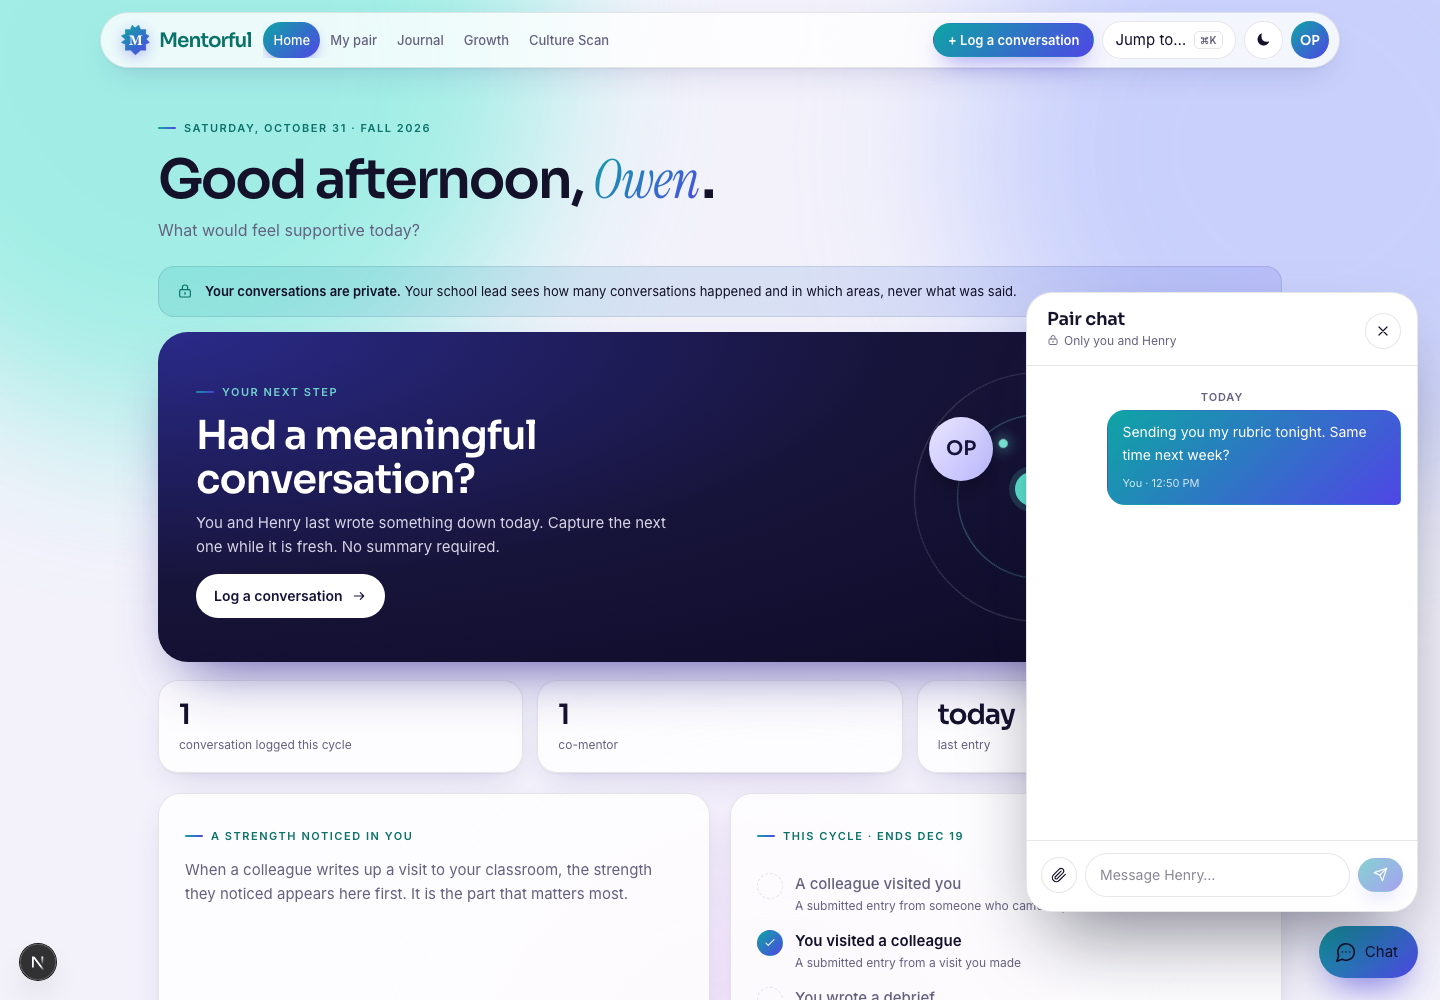
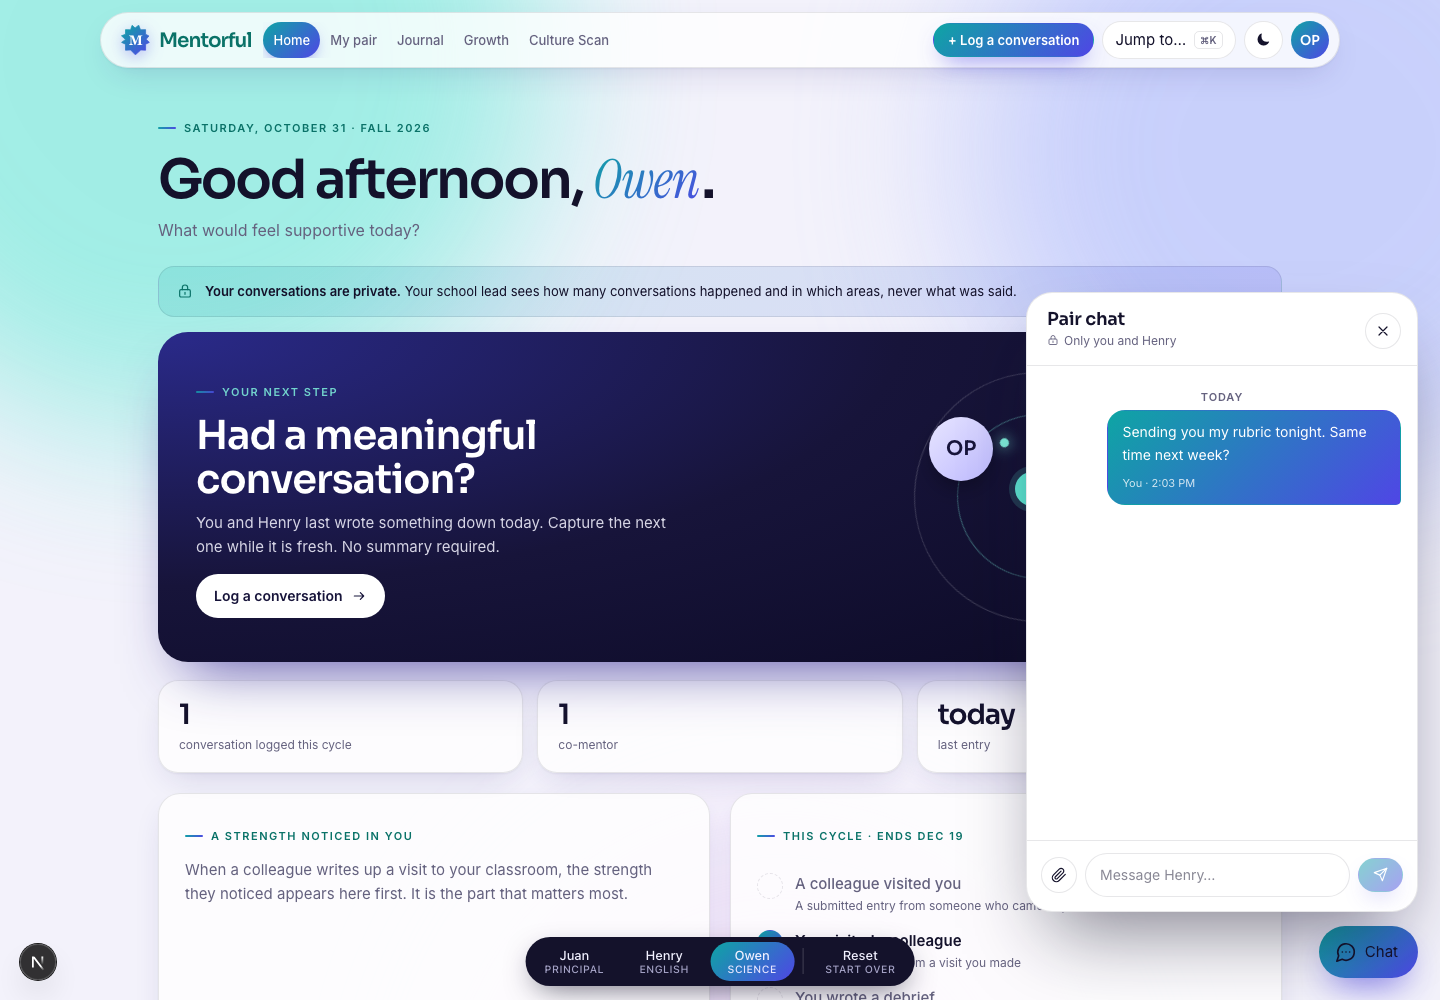
Demo Day: stage launcher, role switcher bar, stage landing, run sheet for the live link

Changed region(s): [[0.3438, 0.93, 0.6562, 1.0], [0.8125, 0.465, 0.8438, 0.496]]

diff --git a/apps/web/src/app/demo/page.tsx b/apps/web/src/app/demo/page.tsx
@@ -1,0 +1,61 @@
+import Link from "next/link";
+import { AuroraPublic } from "@/components/aurora/public-frame";
+import { STAGE_CHARACTERS } from "@/lib/preview/stageTables";
+
+export const metadata = { title: "Demo Day" };
+export const dynamic = "force-dynamic";
+
+const BEATS: { who: string; what: string }[] = [
+  { who: "Juan", what: "Pulse: the focus banner says 8 teachers still need a partner. Point at the privacy badge." },
+  { who: "Juan", what: "Constellation: English and Science are the biggest missing link in the school." },
+  { who: "Juan", what: "Pairing, then Draft new round. The map draws new links between English and Science. Approve 4 pairs." },
+  { who: STAGE_CHARACTERS.first.split(" ")[0], what: "Home now shows a partner. Log a conversation, Save draft, then Submit this entry." },
+  { who: STAGE_CHARACTERS.second.split(" ")[0], what: "Open Chat (bottom right) and send a message. It appears on the other teacher's screen." },
+  { who: "Juan", what: "Pulse again: logged conversations goes from 9 to 10. The words of the entry are nowhere on this side." },
+  { who: "Juan", what: "Trust page: the live check shows what leadership can read." },
+  { who: "Juan", what: "Reports: the faculty map and Download PDF for the deck. Then Present." },
+];
+
+export default function Demo() {
+  return (
+    <AuroraPublic>
+      <p className="ev-eyebrow">Demo Day stage</p>
+      <h1>
+        Three screens, <em>one story.</em>
+      </h1>
+      <p className="ev-lead">
+        No sign-in. Use the bar at the bottom of every screen to change who you are, and <b>Reset</b> before each run. Use one tab: the
+        role is shared by every tab in this browser.
+      </p>
+
+      <div className="ap-demos" style={{ gridTemplateColumns: "repeat(3, minmax(0, 1fr))" }}>
+        <Link className="ap-demo" href="/preview/as/admin?next=/admin/pulse">
+          <b>Juan, the principal</b>
+          <span>Pulse, Pairing, Constellation, Reports.</span>
+        </Link>
+        <Link className="ap-demo" href="/preview/as/teacher?next=/dashboard">
+          <b>{STAGE_CHARACTERS.first}, English</b>
+          <span>The teacher dashboard: partner, journal, chat.</span>
+        </Link>
+        <Link className="ap-demo" href="/preview/as/teacher?who=second&next=/dashboard">
+          <b>{STAGE_CHARACTERS.second}, Science</b>
+          <span>The same dashboard, as the other teacher.</span>
+        </Link>
+      </div>
+
+      <h2 style={{ marginTop: 32 }}>The scene</h2>
+      <ol style={{ paddingLeft: 20, display: "grid", gap: 8 }}>
+        {BEATS.map((b, i) => (
+          <li key={i}>
+            <b>{b.who}.</b> {b.what}
+          </li>
+        ))}
+      </ol>
+      <p style={{ marginTop: 24 }}>
+        <Link className="ev-btn" href="/preview/reset?next=/demo">
+          Reset the demo
+        </Link>
+      </p>
+    </AuroraPublic>
+  );
+}

diff --git a/apps/web/src/components/demo/switcher.tsx b/apps/web/src/components/demo/switcher.tsx
@@ -1,0 +1,43 @@
+/**
+ * Demo Day only: a small bar at the bottom of every screen that says who you are right now and switches you to someone else
+ * in one click. The demo has no sign-in. Who you are is kept in a browser cookie, shared by every tab, so the bar is how you
+ * move between the principal and the two teachers without opening the wrong screen. It is hidden when printing.
+ */
+import { STAGE_CHARACTERS } from "@/lib/preview/stageTables";
+
+export type StageRole = "admin" | "first" | "second";
+
+const PEOPLE: { role: StageRole; label: string; sub: string; href: string }[] = [
+  { role: "admin", label: "Juan", sub: "principal", href: "/preview/as/admin?next=/admin/pulse" },
+  { role: "first", label: STAGE_CHARACTERS.first.split(" ")[0], sub: "English", href: "/preview/as/teacher?next=/dashboard" },
+  { role: "second", label: STAGE_CHARACTERS.second.split(" ")[0], sub: "Science", href: "/preview/as/teacher?who=second&next=/dashboard" },
+];
+
+export function DemoSwitcher({ current }: { current: StageRole }) {
+  return (
+    <nav className="demo-switcher" aria-label="Demo Day: who you are">
+      <style>{`
+        .demo-switcher{position:fixed;left:50%;bottom:14px;transform:translateX(-50%);z-index:2147483000;display:flex;gap:4px;align-items:center;padding:5px;border-radius:999px;background:#14122b;color:#f2f1ff;font:500 13px/1 system-ui,sans-serif;box-shadow:0 10px 30px -10px rgba(20,18,43,.7)}
+        .demo-switcher a{display:inline-flex;flex-direction:column;align-items:center;gap:2px;padding:7px 14px;border-radius:999px;color:#f2f1ff;text-decoration:none;min-width:84px}
+        .demo-switcher a small{font-size:10.5px;letter-spacing:.04em;text-transform:uppercase;color:#a5a3c6}
+        .demo-switcher a[aria-current=true]{background:linear-gradient(135deg,#0ea5a4,#4f46e5)}
+        .demo-switcher a[aria-current=true] small{color:#e6e5ff}
+        .demo-switcher a:hover:not([aria-current=true]){background:rgba(255,255,255,.12)}
+        .demo-switcher a:focus-visible{outline:2px solid #5eead4;outline-offset:2px}
+        .demo-switcher .sep{width:1px;height:26px;background:rgba(255,255,255,.2);margin:0 4px}
+        @media print{.demo-switcher{display:none}}
+      `}</style>
+      {PEOPLE.map((p) => (
+        <a key={p.role} href={p.href} aria-current={p.role === current}>
+          {p.label}
+          <small>{p.sub}</small>
+        </a>
+      ))}
+      <span className="sep" aria-hidden />
+      <a href="/preview/reset?next=/demo" aria-label="Reset the demo to its starting point">
+        Reset
+        <small>start over</small>
+      </a>
+    </nav>
+  );
+}

diff --git a/apps/web/src/app/page.tsx b/apps/web/src/app/page.tsx
@@ -17,6 +17,8 @@ const SIGNED_IN = [
   { href: "/dashboard", title: "Dashboard", blurb: "What a teacher sees day to day." },
 ];
 const DEMO = process.env.PREVIEW_MOCK === "1";
+// Demo Day: no sign-in on the stage, one door to the launcher instead.
+const STAGE = DEMO && process.env.PREVIEW_DATASET === "stage";
 const DEMOS = DEMO ? [...OPEN, ...SIGNED_IN] : OPEN;
 
 export default function Home() {
@@ -26,15 +28,22 @@ export default function Home() {
         <h1>The school culture platform for teachers and the people who lead them.</h1>
         <p className="ap-lead">Co-mentoring, classroom visits, and a real measure of how your faculty is actually connected.</p>
         <div className="ap-cta">
-          <Link className="ev-btn primary" href="/login">
-            Sign in
-          </Link>
+          {STAGE ? (
+            <Link className="ev-btn primary" href="/demo">
+              Open the Demo Day stage
+            </Link>
+          ) : (
+            <Link className="ev-btn primary" href="/login">
+              Sign in
+            </Link>
+          )}
           <a className="ev-btn" href="https://mentorful.co">
             About Mentorful
           </a>
         </div>
       </section>
 
+      {STAGE ? null : (
       <section aria-labelledby="ap-demo-h">
         <h2 id="ap-demo-h">{DEMO ? "Look around without an account" : "Take a look"}</h2>
         <p className="ap-muted">{DEMO ? "Everything below runs on synthetic data. No real school responses." : "No account needed. Both use sample data, not a real school\u2019s answers."}</p>
@@ -47,6 +56,7 @@ export default function Home() {
           ))}
         </div>
       </section>
+      )}
     </AuroraPublic>
   );
 }

diff --git a/apps/web/src/app/layout.tsx b/apps/web/src/app/layout.tsx
@@ -3,6 +3,8 @@ import { Lora, Public_Sans, JetBrains_Mono } from "next/font/google";
 import "./globals.css";
 import BranchBadge from "@/components/BranchBadge";
 import { branchLabel } from "@/lib/branch";
+import { cookies } from "next/headers";
+import { DemoSwitcher, type StageRole } from "@/components/demo/switcher";
 
 // Type system ported from the app-screens prototype: Lora for headings and the
 // wordmark, Public Sans for body, JetBrains Mono for small uppercase labels.
@@ -41,17 +43,26 @@ export const metadata: Metadata = {
     "The school culture platform for teachers and the people who lead them.",
 };
 
-export default function RootLayout({
+// Demo Day only: the stage dataset adds a bar for switching between the principal and the two teachers.
+const STAGE = process.env.PREVIEW_MOCK === "1" && process.env.PREVIEW_DATASET === "stage";
+
+export default async function RootLayout({
   children,
 }: Readonly<{
   children: React.ReactNode;
 }>) {
+  let who: StageRole = "admin";
+  if (STAGE) {
+    const jar = await cookies();
+    who = jar.get("preview_as")?.value === "teacher" ? (jar.get("preview_who")?.value === "second" ? "second" : "first") : "admin";
+  }
   return (
     <html lang="en">
       <body
         className={`${lora.variable} ${publicSans.variable} ${jetbrainsMono.variable} antialiased`}
       >
         {children}
+        {STAGE ? <DemoSwitcher current={who} /> : null}
         <BranchBadge />
       </body>
     </html>

diff --git a/docs/DEMO_DAY.md b/docs/DEMO_DAY.md
@@ -13,41 +13,46 @@ npm run demo          # http://localhost:3400
 Open http://localhost:3400/preview once. It lists every screen. First visits compile, so click through every page you will
 show once before you go on stage.
 
-## The cast (one browser, one laptop)
+## How to use it on stage
 
-| Who | Plays | Open |
-| --- | --- | --- |
-| Juan | the principal | `/preview/as/admin?next=/admin/pulse` |
-| Bernard | Henry White, English | `/preview/as/teacher?next=/dashboard` |
-| Bertrand | Owen Perez, Science | `/preview/as/teacher?who=second&next=/dashboard` |
+Use the deployed link, not Sign in. The demo has no accounts: it signs you in as sample people.
+
+1. Open `https://team-mentorful-demo.vercel.app/?key=<key>` once on the stage laptop (the key is in the team's notes, not in the repo).
+   The browser remembers it for 14 days. Click **Open the Demo Day stage**.
+2. Use **one tab only.** Who you are (the principal, or one of two teachers) is stored in the browser and shared by every tab, so a
+   second tab on another role would change the first.
+3. The bar at the bottom of every screen shows who you are and switches you in one click: **Juan** (principal),
+   **Henry** (English teacher), **Owen** (Science teacher). **Reset** puts everything back to the start.
+4. Press **Reset** before every run, and again after rehearsing.
+5. Keep the local copy as a backup: `cd apps/web && npm run demo`, then http://localhost:3400/demo. Same screens, no internet.
+   On the local copy, changes live in the server's memory instead of the browser.
 
 Henry White and Owen Perez are real people on the faculty map. To cast someone else, change `STAGE_CHARACTERS` in
-`src/lib/preview/stageTables.ts`, then pick a draft seed again (`tests/stage-dataset.test.ts` fails until the draft still
-pairs the two). Open the three roles in three browser windows or tabs of the same browser; switching role is a link, not a login.
+`src/lib/preview/stageTables.ts`, then pick a draft seed again (`tests/stage-dataset.test.ts` fails until the draft still pairs the two).
 
 ## Before every run
 
-Open `/preview/reset`. It forgets everything done on stage and puts the numbers back to the start:
-32 teachers, 12 pairs, 9 logged conversations, English and Science with no pair between them, Henry and Owen without a partner.
+Press **Reset**. It forgets everything done on stage: 32 teachers, 12 pairs, 9 logged conversations, English and Science with no
+pair between them, Henry and Owen without a partner ("Your partner is on the way").
 
 ## The beats, and what the screen does
 
 1. **Pulse.** "Pair the 8 unpaired teachers", 9 logged conversations, the privacy badge.
 2. **Constellation.** English and Science are the biggest missing link in the school.
-3. **Pairing, Draft new round.** One click. The map draws four new links between English and Science, and the line above it
+3. **Pairing, Draft new round** (Juan). One click. The map draws four new links between English and Science, and the line above it
    says "This round closes a gap: English and Science. Connected departments go from 7 of 10 to 8 of 10."
    Henry White and Owen Perez are the first pair. **Approve 4 pairs** saves it; **Reject** throws the draft away.
-4. **Henry's screen.** After Approve, Home shows Owen Perez as an active partnership. Log a conversation: pick the topic,
+4. **Switch to Henry.** After Approve, Home shows Owen Perez as an active partnership. Log a conversation: pick the topic,
    write a line, **Save draft**, then **Submit this entry** (two clicks, as in the real app).
-5. **Owen's screen.** Open Chat (bottom right) and send a message; it shows on Henry's side.
-6. **Pulse again.** Logged conversations goes from 9 to 10. The text of the entry is nowhere on the admin side.
+5. **Switch to Owen.** Open Chat (bottom right) and send a message; it shows on Henry's side.
+6. **Switch to Juan, Pulse again.** Logged conversations goes from 9 to 10. The text of the entry is nowhere on the admin side.
 7. **Trust page.** The live check shows what leadership can read.
 8. **Reports.** The faculty map, and **Download PDF** for the deck (opens the print dialog; choose Save as PDF).
    The deck has counts and department totals only, no names. The faculty map does show names, so keep the line to "no names in the deck".
 
 ## Limits to know
 
-- Changes live in this server's memory. Restarting `npm run demo` or `/preview/reset` clears them.
-- It is one visitor on one laptop. Two laptops will not see each other's changes.
+- On the live link, changes live in the browser (a small compressed cookie); on the local copy, in the server's memory. Reset clears them.
+- It is one visitor on one laptop and one tab. Two laptops will not see each other's changes.
 - The CTLE tracker is off (a later add-on); the games and video are off too.
 - The real database is not used here. Nothing on stage touches Supabase.
